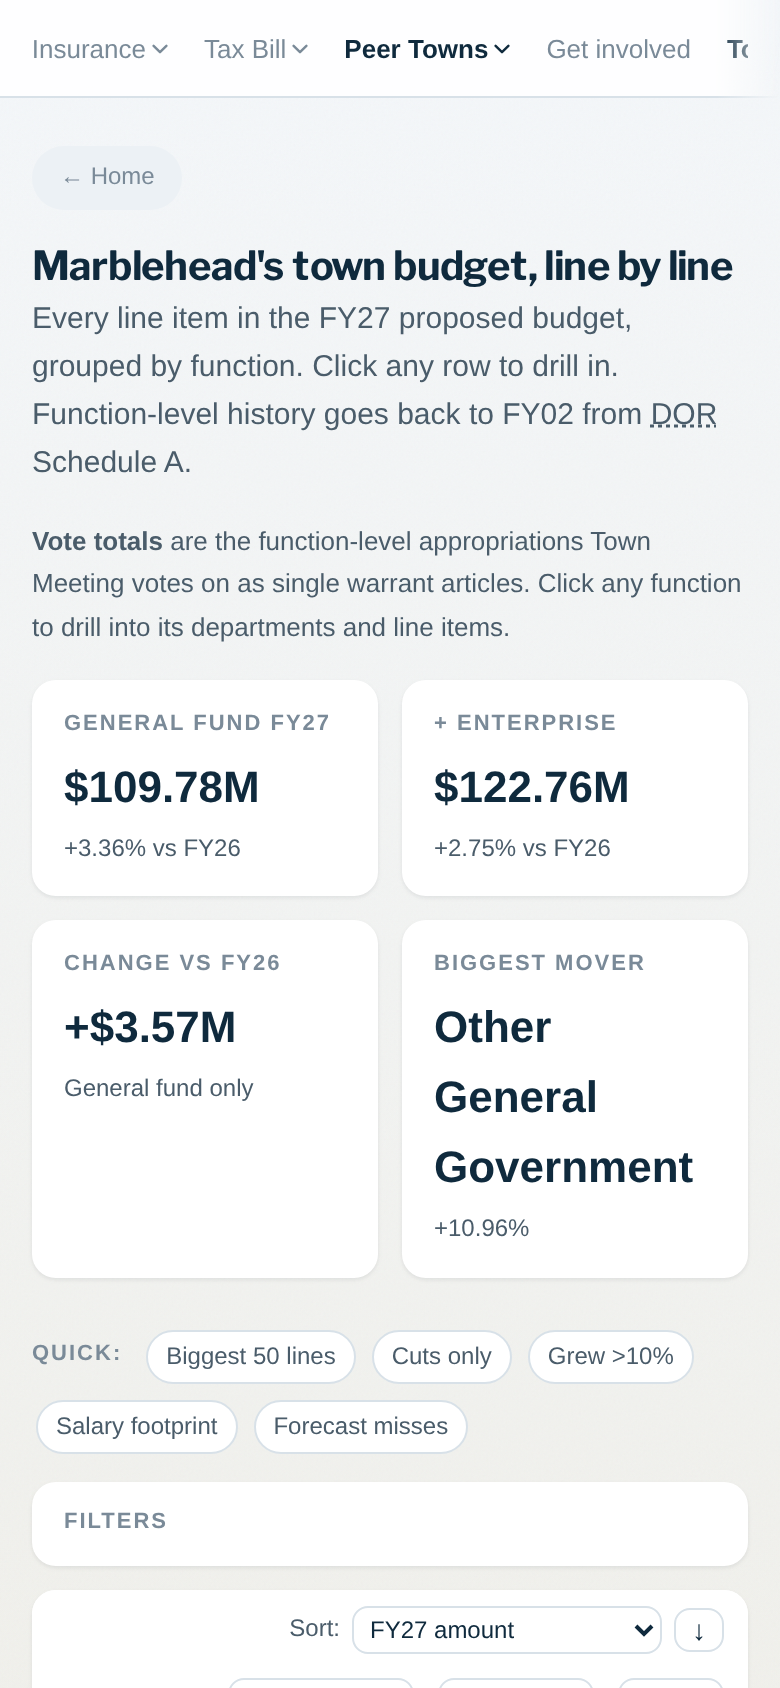
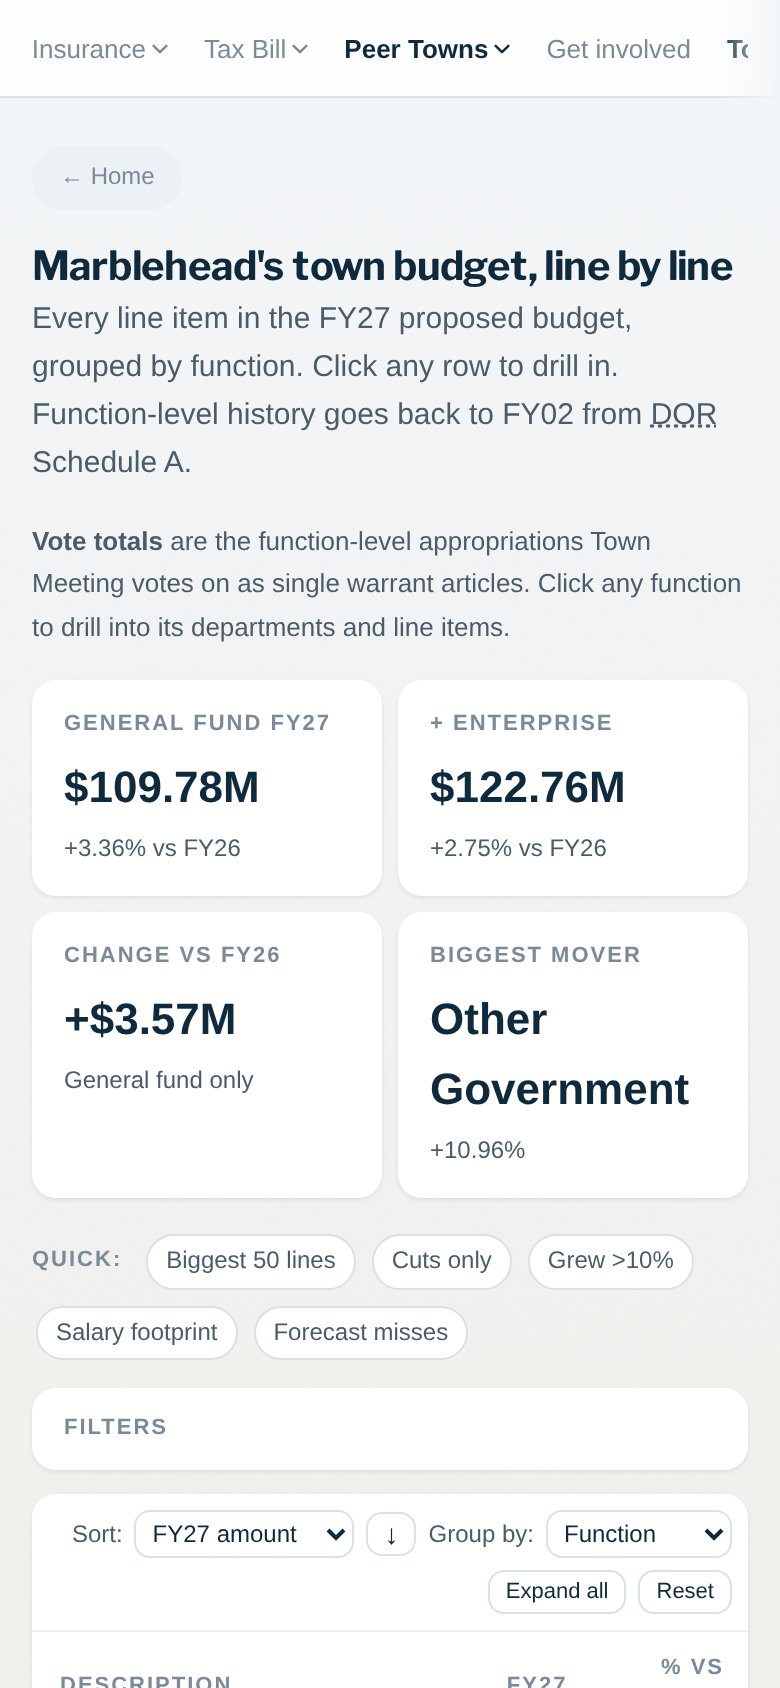
Polish: shorter labels (and→&), bigger tap targets, tighter mobile layout

diff --git a/town-budget.html b/town-budget.html
@@ -11,7 +11,11 @@ og_url: https://marbleheaddata.org/town-budget.html
     display: grid; grid-template-columns: repeat(4, 1fr);
     gap: 12px; margin: 16px 0 24px;
   }
-  @media (max-width: 700px) { .tb-stats { grid-template-columns: repeat(2, 1fr); } }
+  @media (max-width: 700px) {
+    .tb-stats { grid-template-columns: repeat(2, 1fr); gap: 8px; margin: 12px 0 16px; }
+    .tb-stat-value { font-size: 18px; }
+    .tb-stat-tile { padding: 12px 14px; }
+  }
   .tb-stat-tile {
     background: var(--surface); border-radius: var(--radius-md);
     box-shadow: var(--shadow-sm); padding: 14px 16px;
@@ -22,7 +26,7 @@ og_url: https://marbleheaddata.org/town-budget.html
   .tb-stat-label { font-size: 11px; font-weight: 700;
     text-transform: uppercase; letter-spacing: 1px; color: var(--text-subtle); }
   .tb-stat-value { font-size: 22px; font-weight: 700; color: var(--text);
-    font-variant-numeric: tabular-nums; }
+    font-variant-numeric: tabular-nums; word-break: break-word; }
   .tb-stat-sub { font-size: 12px; color: var(--text-muted); }
 
   /* Tree-table container */
@@ -61,10 +65,12 @@ og_url: https://marbleheaddata.org/town-budget.html
   }
   .tb-row--department td:first-child { padding-left: 40px; }
   .tb-caret {
-    display: inline-block; width: 14px; transition: transform 0.15s;
+    display: inline-block; width: 16px; transition: transform 0.15s;
     color: var(--text-subtle); user-select: none;
+    font-size: 13px; line-height: 1;
   }
-  .tb-row.tb-expanded > td .tb-caret { transform: rotate(90deg); }
+  .tb-row.tb-expanded > td .tb-caret { transform: rotate(90deg); color: var(--c-teal); }
+  .tb-row:active { background: color-mix(in srgb, var(--c-teal) 12%, transparent); }
   .tb-row--leaf .tb-caret { visibility: hidden; }
   .tb-row--line td:first-child { padding-left: 64px;
     font-size: 14px; color: var(--text-muted); }
@@ -116,6 +122,16 @@ og_url: https://marbleheaddata.org/town-budget.html
   }
   @media (max-width: 700px) {
     .tb-col-spark { display: none; }
+    .tb-table { font-size: 14px; }
+    .tb-table thead th:nth-child(2),
+    .tb-table tbody td:nth-child(2) { width: 22%; min-width: 76px; }
+    .tb-table thead th:nth-child(3),
+    .tb-table tbody td:nth-child(3) { width: 22%; min-width: 70px; }
+    .tb-row td { padding: 12px 10px; }
+    .tb-row--department td:first-child { padding-left: 28px; }
+    .tb-row--line td:first-child { padding-left: 44px; font-size: 12.5px; }
+    .tb-caret { width: 18px; font-size: 14px; }
+    .tb-table-wrap { margin-bottom: 16px; }
   }
   .tb-filter-bar {
     background: var(--surface); border-radius: var(--radius-md);
@@ -151,6 +167,12 @@ og_url: https://marbleheaddata.org/town-budget.html
   .tb-chip-actions a { cursor: pointer; text-decoration: underline; }
   .tb-filter-count { font-size: 11px; font-weight: 500; color: var(--text-muted); text-transform: none; letter-spacing: 0; margin-left: auto; }
   .tb-toolbar { gap: 12px; flex-wrap: wrap; }
+  @media (max-width: 700px) {
+    .tb-toolbar { flex-wrap: wrap; gap: 6px; padding: 8px; }
+    .tb-toolbar-control { font-size: 11px; }
+    .tb-toolbar-control select { padding: 2px; max-width: 110px; }
+    #tb-expand-all, #tb-reset { padding: 4px 8px; font-size: 11px; }
+  }
   .tb-toolbar-control {
     display: inline-flex; align-items: center; gap: 6px;
     font-size: 12px; color: var(--text-muted);
@@ -394,11 +416,12 @@ og_url: https://marbleheaddata.org/town-budget.html
   function displayLabel(r) {
     var d = r.description || '';
     if (r.level === 'function') {
+      if (r.id === 'other_general_government') return 'Other Government';
       var stripped = d.replace(/^VOTE TOTAL /, '');
-      return titleCase(stripped);
+      return titleCase(stripped).replace(/ and /g, ' & ');
     }
     if (r.id === 'total_general_fund') return 'Total General Fund';
-    if (r.id === 'total_budgets') return 'Total Budget (incl. Enterprise)';
+    if (r.id === 'total_budgets') return 'Total (with Enterprise)';
     return d;
   }
 
